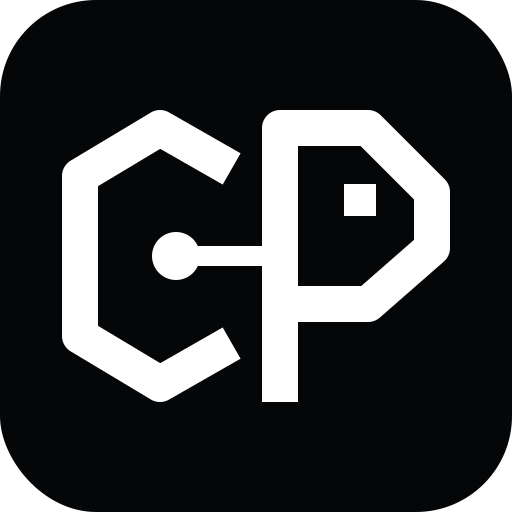
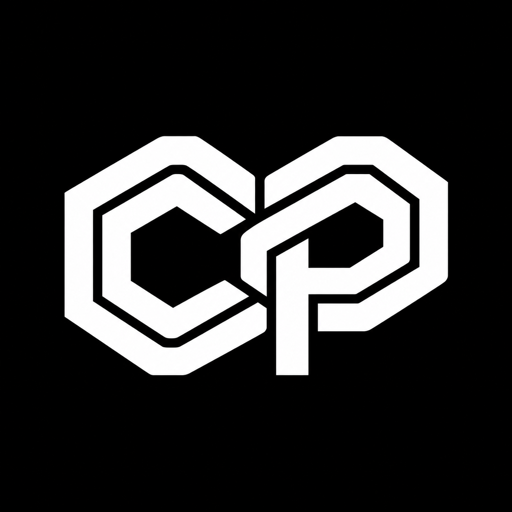
style: 参考原版双线交织图标重设计 CP

diff --git a/public/login.html b/public/login.html
@@ -1,1 +1,1 @@
-<!doctype html><html lang="zh-CN"><head><meta charset="utf-8"><meta name="viewport" content="width=device-width,initial-scale=1,viewport-fit=cover"><link rel="icon" type="image/png" sizes="64x64" href="/icon-cp-64.png?v=2"><link rel="apple-touch-icon" sizes="180x180" href="/icon-cp-180.png?v=2"><title>手机配对 · Codex Portal</title><link rel="stylesheet" href="/styles.css"><link rel="stylesheet" href="/mobile-ui.css"><link rel="manifest" crossorigin="use-credentials" href="/manifest.webmanifest"></head><body><main class="pairing-page"><h1>连接 Codex Portal</h1><p>首次访问时，在 Mac 工作台的“手机访问”中生成配对码。已配对设备将自动进入。</p><form id="pair-form" hidden><label for="pair-code">六位配对码</label><input id="pair-code" aria-describedby="pair-status" enterkeyhint="go" inputmode="numeric" autocomplete="one-time-code" pattern="[0-9]{6}" maxlength="6" required><button class="primary-button">配对并进入</button></form><p id="pair-status" role="status">正在检查已有登录…</p><button id="pair-retry" class="secondary-button" type="button" hidden>重新检查连接</button><p>重启或升级工作台不会清除手机登录。请使用原来的访问地址和浏览器；登录有效期由本机配对时设置。</p><p><a href="">重新加载页面</a></p><noscript>请启用 JavaScript 后重新加载页面。</noscript></main><script defer src="/login.js"></script></body></html>
+<!doctype html><html lang="zh-CN"><head><meta charset="utf-8"><meta name="viewport" content="width=device-width,initial-scale=1,viewport-fit=cover"><link rel="icon" type="image/png" sizes="64x64" href="/icon-cp-64.png?v=3"><link rel="apple-touch-icon" sizes="180x180" href="/icon-cp-180.png?v=3"><title>手机配对 · Codex Portal</title><link rel="stylesheet" href="/styles.css"><link rel="stylesheet" href="/mobile-ui.css"><link rel="manifest" crossorigin="use-credentials" href="/manifest.webmanifest"></head><body><main class="pairing-page"><h1>连接 Codex Portal</h1><p>首次访问时，在 Mac 工作台的“手机访问”中生成配对码。已配对设备将自动进入。</p><form id="pair-form" hidden><label for="pair-code">六位配对码</label><input id="pair-code" aria-describedby="pair-status" enterkeyhint="go" inputmode="numeric" autocomplete="one-time-code" pattern="[0-9]{6}" maxlength="6" required><button class="primary-button">配对并进入</button></form><p id="pair-status" role="status">正在检查已有登录…</p><button id="pair-retry" class="secondary-button" type="button" hidden>重新检查连接</button><p>重启或升级工作台不会清除手机登录。请使用原来的访问地址和浏览器；登录有效期由本机配对时设置。</p><p><a href="">重新加载页面</a></p><noscript>请启用 JavaScript 后重新加载页面。</noscript></main><script defer src="/login.js"></script></body></html>

diff --git a/public/index.html b/public/index.html
@@ -7,7 +7,7 @@
   <meta name="theme-color" content="#f7f8f5">
   <meta name="apple-mobile-web-app-capable" content="yes">
   <link rel="manifest" crossorigin="use-credentials" href="/manifest.webmanifest">
-  <link rel="icon" type="image/png" sizes="64x64" href="/icon-cp-64.png?v=2"><link rel="apple-touch-icon" sizes="180x180" href="/icon-cp-180.png?v=2">
+  <link rel="icon" type="image/png" sizes="64x64" href="/icon-cp-64.png?v=3"><link rel="apple-touch-icon" sizes="180x180" href="/icon-cp-180.png?v=3">
   <title>Codex Portal</title>
   <link rel="stylesheet" href="/styles.css"><link rel="stylesheet" href="/new-chat.css">
   <link rel="modulepreload" href="/app.js">
@@ -26,18 +26,7 @@
 <body class="startup-pending">
   <svg class="icon-defs" xmlns="http://www.w3.org/2000/svg" aria-hidden="true"><defs>
     <symbol id="i-question" viewBox="0 0 24 24"><path d="M21 11.5a8.5 8.5 0 0 1-8.5 8.5H4l-2 2v-10.5a9.5 9.5 0 0 1 19 0Z"/><path d="M9 8a3 3 0 0 1 6 0c0 2-3 2-3 4m0 3v.1"/></symbol>
-    <symbol id="i-mark" viewBox="0 0 64 64">
-  <rect width="64" height="64" rx="12" fill="#050608" stroke="none"/>
-  <g fill="none" stroke="#fff" stroke-width="4.5" stroke-linecap="square" stroke-linejoin="round">
-    <path d="M27 20l-7-4-10 6v20l10 6 7-4"/>
-    <path d="M35 48V16h11l8 8v7l-8 7H35"/>
-  </g>
-  <path d="M22 32h13" fill="none" stroke="#fff" stroke-width="2.5"/>
-  <g fill="#fff" stroke="none">
-    <circle cx="22" cy="32" r="3"/>
-    <path d="M43 23h4v4h-4z"/>
-  </g>
-</symbol>
+    <symbol id="i-mark" viewBox="0 0 64 64"><image width="64" height="64" href="/icon-cp-192.png?v=3"/></symbol>
     <symbol id="i-mic" viewBox="0 0 24 24"><rect x="9" y="2" width="6" height="12" rx="3"/><path d="M5 10v2a7 7 0 0 0 14 0v-2M12 19v3m-4 0h8"/></symbol>
     <symbol id="i-plus" viewBox="0 0 24 24"><path d="M12 5v14M5 12h14"/></symbol>
     <symbol id="i-search" viewBox="0 0 24 24"><circle cx="10.5" cy="10.5" r="6.5"/><path d="m16 16 4.5 4.5"/></symbol>
